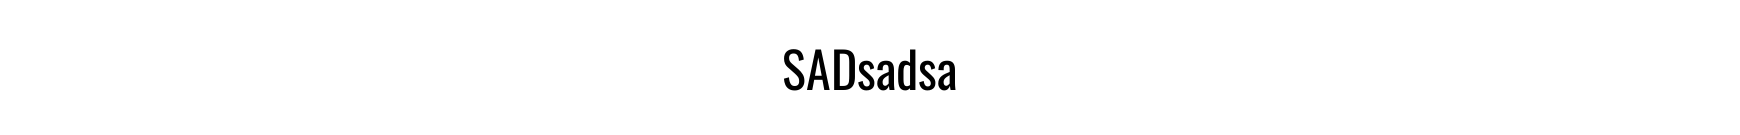
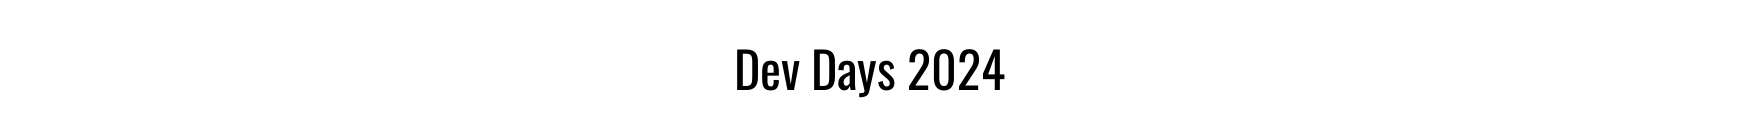
work fotobox

Changed region(s): [[0.4034, 0.3556, 0.5897, 0.6815]]

diff --git a/Main.py b/Main.py
@@ -15,12 +15,12 @@ import pgimage
 pygame.init() # Necessary to use font libary in class pginputbox
 import pginputbox # pygame.init() has to be before import pginputbox !!!!
 import pgtext
-import PhotoBooth_Dev_Wind
+import PhotoBooth
 import socket
 
 
 
-working_dictonary= r"C:\Users\Jonathan\NextCloud_hosted_by_Esra\Maker_Stuff\FotoBox\Local_GitRepo\fotobox" #Dictonary in which all files are located(images and other classes)
+working_dictonary= os.getcwd() #Dictonary in which all files are located(images and other classes)
 class App(cevent.CEvent):
     def __init__(self):
         self._running = True                                                # Status of the programm
@@ -43,15 +43,15 @@ class App(cevent.CEvent):
         
         self.settings = {"printing":False, "Upload":True, "usb":True,
                          "FULLSCREEN": False,
-                         "Thumb_InBox": False, 
+                         "Thumb_InBox": True, 
                          "montage_thumb_text" : "Dev Days 2024",
                          "montage_style": 2,
                          "NC-folder":"Dev-Days-2024", 
                          "nc-url":"https://nc-8872520695452827614.nextcloud-ionos.com/",
                          "nc_user":"boxjoni",
                          "nc_pw":"FUUhJw0NTnXw"}  # all settings should reside in this dict
-        self.NextCloudClient = PhotoBooth_Dev_Wind.NextCloudClient(working_dictonary,self.settings["NC-folder"],self.settings["nc-url"],self.settings["nc_user"],self.settings["nc_pw"])
-        self.booth = PhotoBooth_Dev_Wind.PhotoBooth(working_dictonary,self.settings["montage_style"],self.settings["Thumb_InBox"], self.settings["montage_thumb_text"])
+        self.NextCloudClient = PhotoBooth.NextCloudClient(working_dictonary,self.settings["NC-folder"],self.settings["nc-url"],self.settings["nc_user"],self.settings["nc_pw"])
+        self.booth = PhotoBooth.PhotoBooth(working_dictonary,self.settings["montage_style"],self.settings["Thumb_InBox"], self.settings["montage_thumb_text"])
         self.last_montage_path = "temps/collage.jpg"
         self.last_QR_path ="temps/QR.jpg"
         
@@ -400,11 +400,11 @@ class App(cevent.CEvent):
             self._set_montage_window.inputboxes[inputbox].visibility = False
         if self.booth.thumb:
             if self.booth.thumb_inbox:
-                self._set_montage_window.buttons["InBox"].update_image(f"Images/style/Thumb_{"InBox"}_a.png")
-                self._set_montage_window.buttons["InkScape"].update_image(f"Images/style/Thumb_{"InkScape"}.png")
+                self._set_montage_window.buttons["InBox"].update_image("Images/style/Thumb_InBox_a.png")
+                self._set_montage_window.buttons["InkScape"].update_image("Images/style/Thumb_InkScape.png")
             else:
-                self._set_montage_window.buttons["InBox"].update_image(f"Images/style/Thumb_{"InBox"}.png")
-                self._set_montage_window.buttons["InkScape"].update_image(f"Images/style/Thumb_{"InkScape"}_a.png")
+                self._set_montage_window.buttons["InBox"].update_image("Images/style/Thumb_InBox.png")
+                self._set_montage_window.buttons["InkScape"].update_image("Images/style/Thumb_InkScape_a.png")
             if self.booth.montage_style==1:
                 self._set_montage_window.images["thumbnail"].location= (205,750)
                 self._set_montage_window.images["thumbnail"].size=(870,68)
@@ -776,11 +776,20 @@ class App(cevent.CEvent):
         self._current_window= self._settings_window
         self.on_render()
     def update_NC_folder(self):
-        window = self._current_window
-        c_folder_name = str(window.inputboxes["Input NC-Folder"].get_text())
+        self._current_window = self._settings_window 
+        c_folder_name = str(self._settings_window.inputboxes["Input NC-Folder"].get_text())
+        self._settings_window.texts["NC-Erreichbarkeit"].update_text(" ")
+        print("before ob render 1")
+        self.open_settings()
+        self._settings_window.texts["NC-Erreichbarkeit"].update_text("- Status des NC-Ordners {}:".format(self.NextCloudClient.get_nc_folder()))
+        self.NextCloudClient.set_nc_folder(c_folder_name)
+        print("before ob render 2")
+        self.open_settings()
         self.NextCloudClient.create_folder(c_folder_name)
-        print(f"Created: {c_folder_name}")
-        print(self.NextCloudClient.get_nc_folder())
+        self._settings_window.texts["NC-Erreichbarkeit"].update_text("- Status des NC-Ordners {}: {}".format(self.NextCloudClient.get_nc_folder(), 
+                                                                                            "Erreichbar " if self.NextCloudClient.check_folder_exist(self.NextCloudClient.nc_folder)
+                                                                                            else "Nicht erreichbar"
+                                                                                            ))
         self.open_settings()
     def create_thumb_from_input(self):
         window=self._set_montage_window

diff --git a/PhotoBooth.py b/PhotoBooth.py
@@ -16,10 +16,14 @@ class NextCloudClient:
         self.url= url
         self.user = user
         self.password = password
+        self.connect_client()
         self.nc_folder=self.create_folder(nc_folder)
         self.current_link = None
         self.current_qr_path = os.path.join(base_path,"temps/","QR.png")
         self.last_upload_succesfull = False
+    def set_nc_folder(self,folder):
+        self.nc_folder = folder
+
     def get_nc_folder(self):
         return self.nc_folder
     def connect_client(self):
